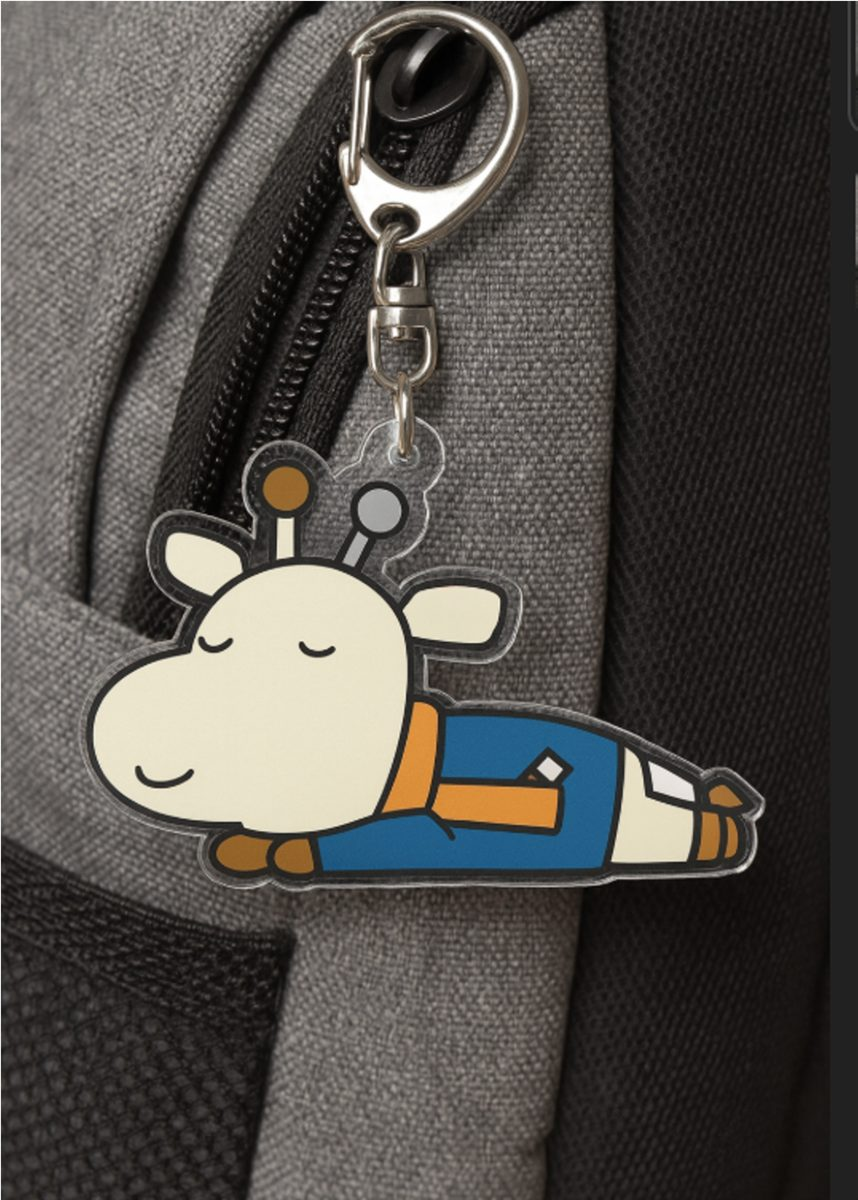
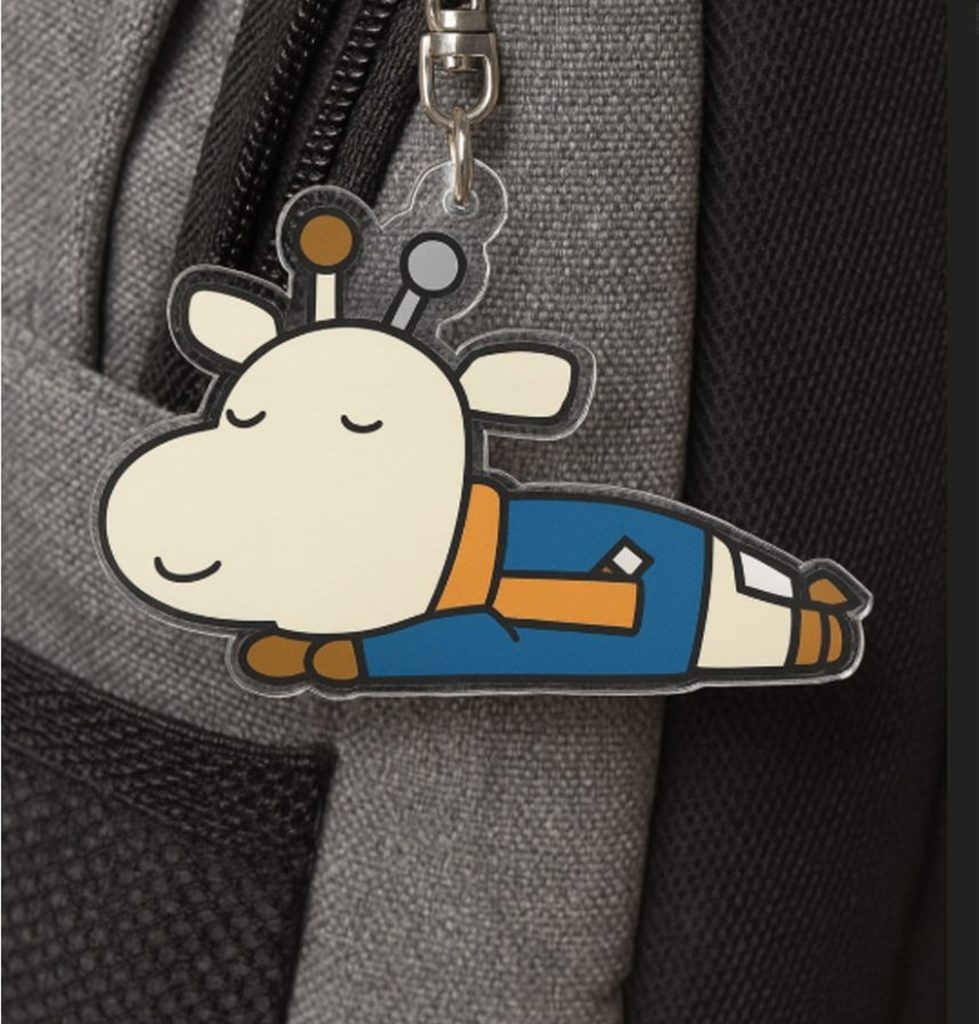
Let the goods photos stand on their own edges
The white matting came from forcing every photo into one 3:4 frame and
filling the leftover space. Dropping the frame — no background, border or
padding, and no fixed ratio — lets each photo keep its own proportions,
which also means the 14px radius now rounds the photograph itself rather
than a box it was sitting inside. Cards align to the top of their row,
since photo heights differ again.

The six keyring shots are cropped in the files to keyring-a's 979×1024 so
they match without CSS forcing it. A centred crop would have taken a
third of the height off some of them and cut the ring or the charm's
feet, so the crop is placed on the vertical centre of mass of the
saturated pixels — the charm is the coloured thing, the bag behind it
mostly is not. All six keep the whole charm.

One consequence worth knowing: 메모지C is portrait where A and B are
square, so its caption now sits lower than theirs. The keyring treatment
would even it out if that reads as untidy.

Claude-Session: https://claude.ai/code/session_01MgBGS71Njs3AX4oocWw8x7

diff --git a/store.html b/store.html
@@ -134,13 +134,13 @@
   /* 항목이 1개든 6개든 카드 크기는 같게 — 3열 고정.
      개수에 따라 열을 바꾸면 스티커 1장이 메모지 3장보다 커집니다. */
   .grid{list-style:none;display:grid;gap:14px 12px;margin-top:16px;
-        grid-template-columns:repeat(3,1fr)}
+        grid-template-columns:repeat(3,1fr);align-items:start}
   .gcard{margin:0}
-  /* 굿즈 사진은 세로가 많고(엽서·스티커·키링) 정사각도 섞여 있어(손거울·메모지),
-     cover 로 채우면 제품이 잘립니다. contain 으로 전체를 보여주고 남는 자리는 여백으로 둡니다. */
-  .gcard img{width:100%;aspect-ratio:3/4;object-fit:contain;display:block;
-             background:var(--paper-2);border:1.5px solid var(--line);border-radius:14px;
-             padding:6px}
+  /* 사진은 틀에 맞추지 않고 원래 비율 그대로 둡니다. 그래야 흰 여백이 생기지 않고,
+     모서리 라운드가 이미지 상자가 아니라 사진 자체에 걸립니다.
+     그래서 같은 줄이라도 사진 높이가 다를 수 있어 위쪽으로 정렬합니다.
+     (키링 6장은 파일 자체를 키링A와 같은 979×1024 로 맞춰뒀습니다) */
+  .gcard img{width:100%;height:auto;display:block;border-radius:14px}
   .gcard figcaption{margin-top:8px;font-size:12.5px;font-weight:700;color:var(--ink-soft);
                     line-height:1.5;text-align:center}
   @media(max-width:560px){
